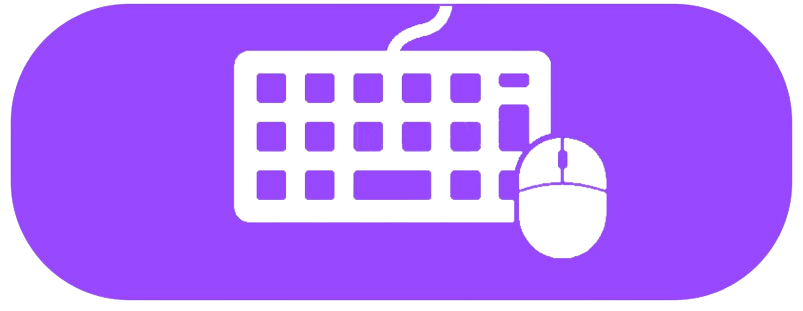
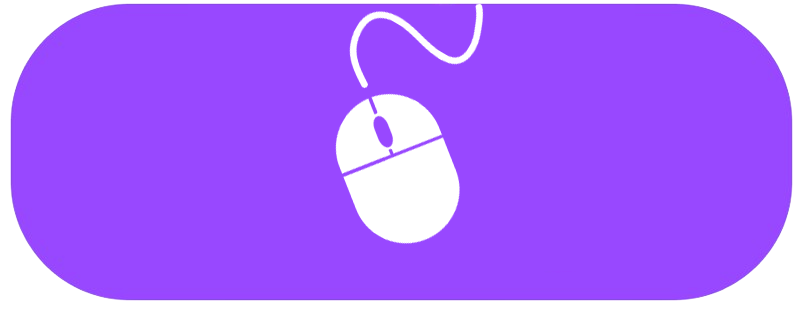
ok

Changed region(s): [[0.2802, 0.0, 0.7783, 0.8392]]

diff --git a/howtoplay.html b/howtoplay.html
@@ -26,7 +26,7 @@
           </div>
           <!-- Text -->
           <div class="instruction-text">
-            <p><b>[1]</b> Solve the enigma code by discovering what letter below corresponds to the real letter.</p>
+            <p><b>[1]</b> Solve the enigma code by guessing what the complete word is.</p>
           </div>
         </div>
       
@@ -56,7 +56,7 @@
           </div>
           <!-- Text -->
           <div class="instruction-text">
-            <p><b>[4]</b> You can use your mouse or keyboard to input and guess the correct letters.</p>
+            <p><b>[4]</b> Use your mouse or trackpad to input and guess the correct letters.</p>
           </div>
         </div>
   
@@ -76,7 +76,7 @@
           </div>
           <!-- Text -->
           <div class="instruction-text">
-            <p><b>[6]</b> You have 3 minutes to save Britain from nuclear warfare. Goodluck!</p>
+            <p><b>[6]</b> You have 2 minutes to save Britain from nuclear warfare. Goodluck!</p>
           </div>
         </div>
         <!-- The dots/circles -->
